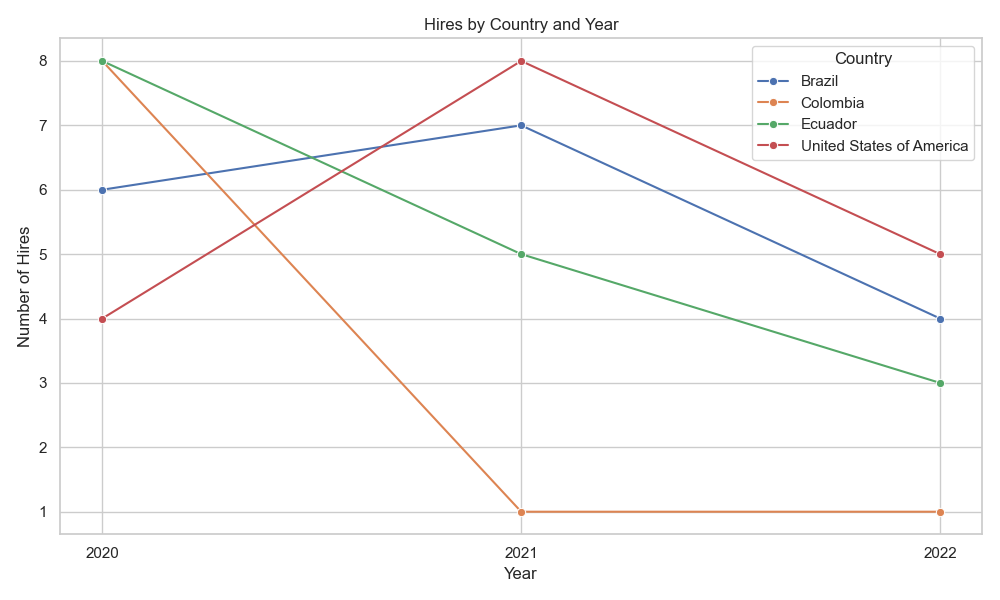
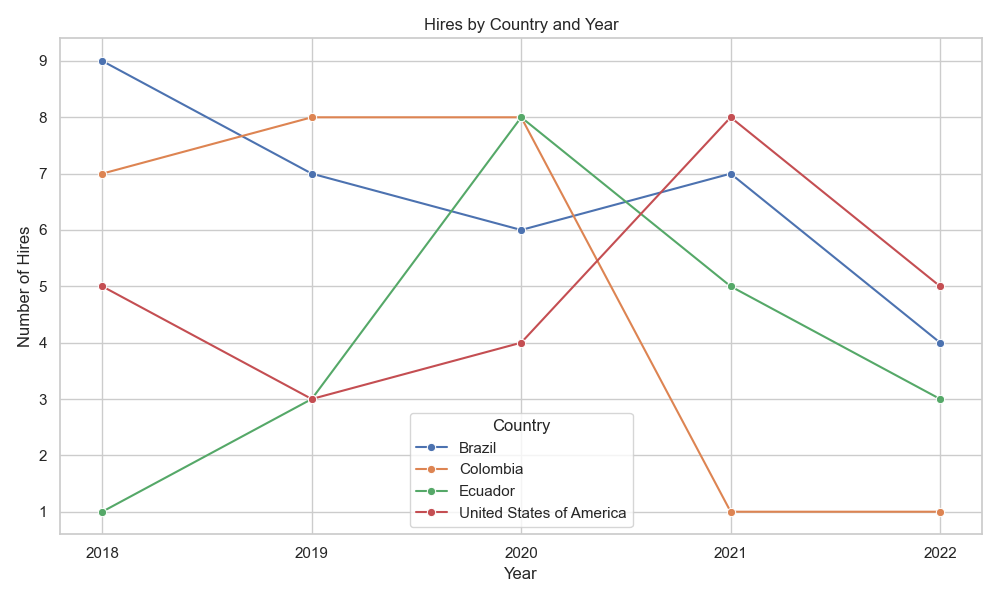
update

diff --git a/report/visualization.py b/report/visualization.py
@@ -41,15 +41,9 @@ def plot_hires_by_seniority():
     plt.tight_layout()
     plt.show()
 
-# Hires by Country and Year (debug)
+# Hires by Country and Year
 def plot_hires_by_country_year():
     df = hires_by_country_year()
-    if df.empty:
-        print("Warning: Hires by Country and Year dataframe is empty!")
-        return
-
-    df = df[(df['year'] >= 2020) & (df['year'] <= 2025)]
-
     plt.figure(figsize=(10,6))
     sns.lineplot(x='year', y='hires', hue='country', data=df, marker='o')
     plt.title('Hires by Country and Year')
